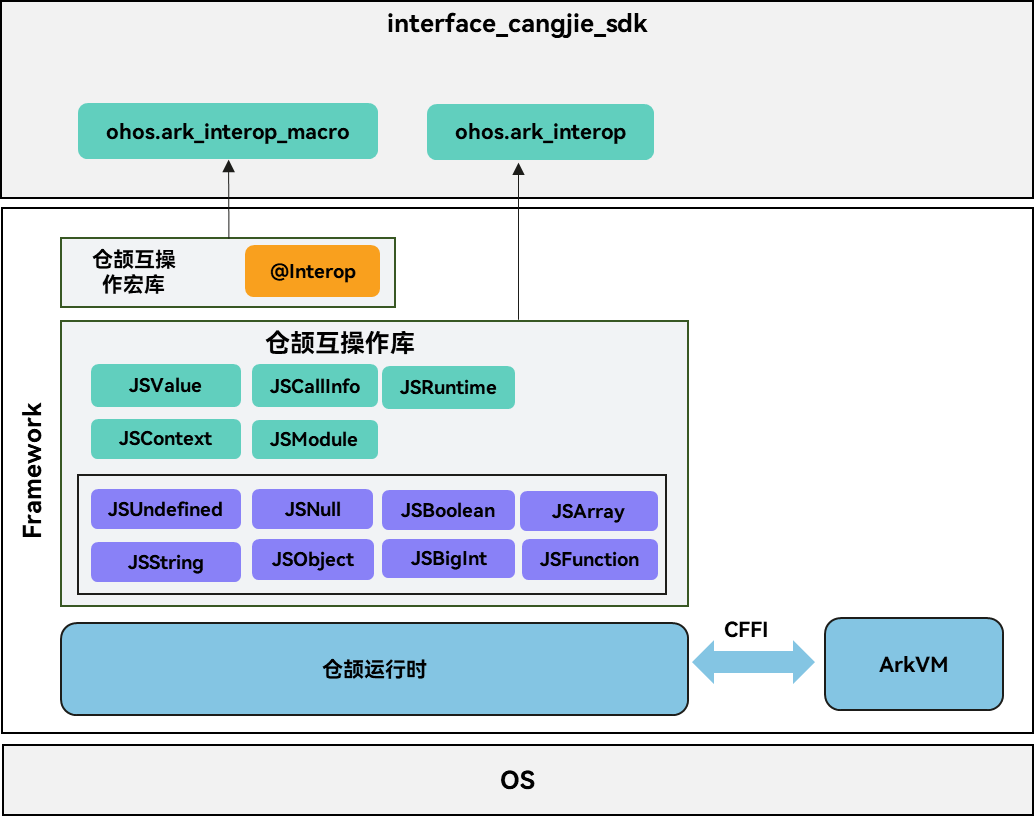
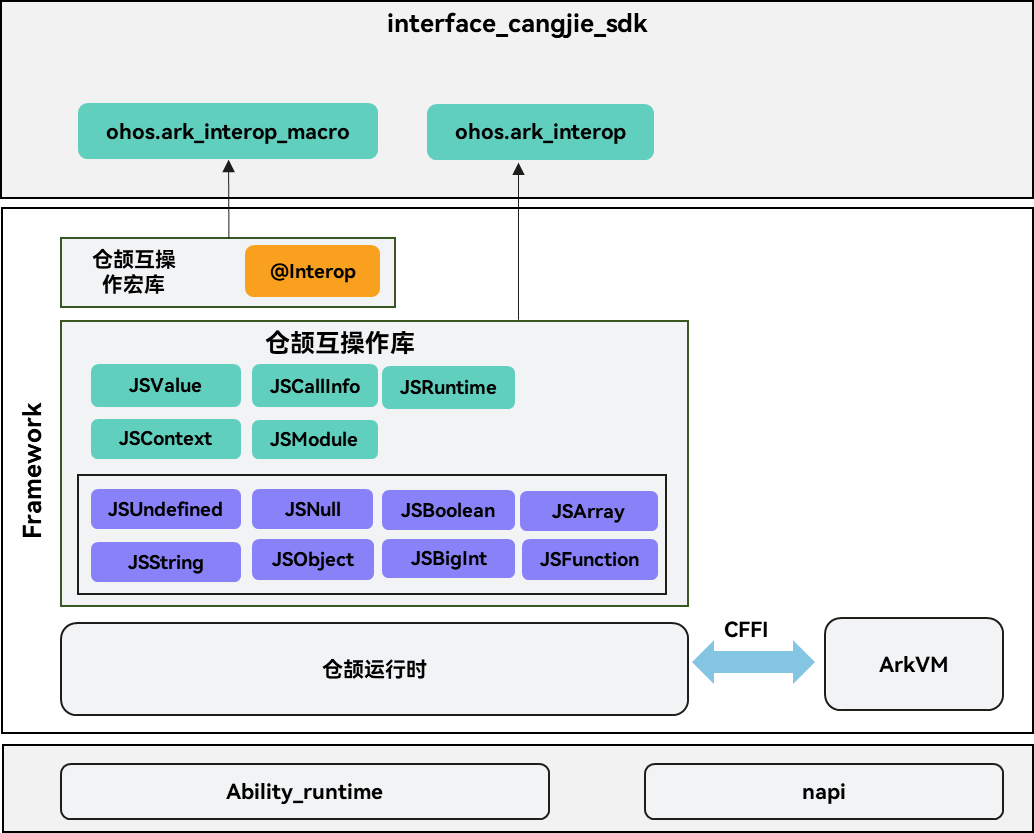
fixed doc

diff --git a/README_zh.md b/README_zh.md
@@ -1,10 +1,12 @@
-# 仓颉互操作API公共仓
+# 仓颉-ArkTS互操作接口
 
 ## 简介
 
-仓颉ArkTS互操作库API，用于提供仓颉与ArkTS跨语言互操作能力，包含仓颉互操作库提供的公共接口、互操作宏接口和依赖的json和CFFI接口，期望给开发者提供兼顾开发效率和运行效率的跨语言互操作解决方案，提供简洁的互操作开发范式，降低跨语言互通开销。
+仓颉ArkTS互操作库API，用于提供仓颉与ArkTS跨语言互操作能力，包含仓颉互操作库提供的公共接口、互操作宏接口，期望给开发者提供兼顾开发效率和运行效率的跨语言互操作解决方案，提供简洁的互操作开发范式，降低跨语言互通开销。
 
-其主要结构如下图所示：
+说明：当前开放的仓颉互操作接口仅支持standard设备。
+
+其主要框架如下图所示：
 
 ![仓颉互操作API框架](./figures/cangjie-interop.png)
 
@@ -26,40 +28,64 @@
 本库还提供以下的关键数据结构：
 
 - JSValue: 用于表示来自ArkTS中的对象（如数字、字符串、对象、函数），是仓颉与ArkTS类型转换的桥梁。
+- JSModule: JSModule的目标是提供符号导出能力（导出到ArkTS）。配合自定义静态初始化函数，在动态库被加载时把导出目标注册到全局表，并由ArkTS引擎来执行导出。
+- JSRuntime: 仓颉创建的 ArkTS 运行时。
 - JSContext: 用于表示与ArkTS互操作的上下文，提供模块加载、JSValue创建等能力。
 - JSCallInfo: 用于表示当发生来自于ArkTS互操作调用时 调用的参数集合。
 
-最后本互操作库通过CFFI调用ArkTS虚拟机提供的接口完成互操作功能。
+最后本互操作库通过C语言互操作调用ArkTS虚拟机提供的接口完成互操作功能。
+
+## 公共能力
+
+本仓库还提供了公共能力的接口，比如：JSON序列化和反序列化接口、C语言互操作接口、通用异常接口、回调接口、API Level接口。
+
+- JSON序列化和反序列化接口：用于对JSON数据的处理，实现String,JsonValue,DataModel之间的相互转换。
+- C语言互操作接口：提供了管理C互操作对象的工具类。
+- 通用异常接口：提供了通用的异常类BusinessException。
+- 回调接口：提供了用于函数回调参数的工具类。
+- API Level接口：提供了API Level的接口，用于获取当前API Level。
+
 
 ## 目录
 
 ```text
 arkcompiler/cangjie_ark_interop
-├── ohos                 # 仓颉互操作API的公共仓代码
-├── doc                  # 仓颉文档，包括API参考、应用开发指南、仓颉编程语言用户手册
-    ├── API_Reference    # 仓颉API参考
-    └── Dev_Guide        # 仓颉开发指南
-    └── release-notes    # 仓颉发布说明
-    └── User_Manual      # 仓颉用户手册
-├── figures              # 本README需要使用的图片
-├── test                 # 仓颉互操作测试用例
+├── ohos                   # 仓颉互操作API的公共仓代码
+|   ├── ark_interop        # 仓颉互操作库
+|   ├── ark_interop_helper # 仓颉互操作库工具类
+|   ├── ark_interop_macro  # 仓颉互操作库宏
+|   ├── business_exception # 仓颉互操作异常
+|   ├── callback_invoke    # 仓颉互操作回调工具类
+|   ├── encoding           # 仓颉json库
+|   ├── ffi                # 仓颉C语言互操作库
+|   ├── labels             # 仓颉互操作库api level标签
+|   ├── utf16string        # 仓颉互操作库提供的utf16字符串处理类
+├── doc                    # 仓颉文档，包括API参考、应用开发指南、仓颉编程语言用户手册
+|   ├── API_Reference      # 仓颉API参考
+|   ├── Dev_Guide          # 仓颉开发指南
+|   ├── release-notes      # 仓颉发布说明
+|   ├── User_Manual        # 仓颉用户手册
+├── figures                # 本README需要使用的图片
+├── test                   # 仓颉互操作测试用例
 ```
 
 ## 约束
 
-当前开放的仓颉互操作接口仅支持standard设备。
-
 ## 使用场景
 
-包含仓颉-ArkTS互操作库，用于仓颉-ArkTS互操作。json库/APILevel/CFFI库为基础功能库，提供给仓颉API/仓颉UI等子系统等公共能力。
+包含仓颉-ArkTS互操作库，用于仓颉-ArkTS互操作。json库/APILevel/C语言互操作库为基础功能库，提供给仓颉API/仓颉UI等子系统等公共能力。
 
 在OpenHarmony应用开发中，存在使用仓颉与ArkTS混合开发的诉求，例如以下场景：
 
 - 场景一：在使用ArkTS开发时，通过跨语言互操作调用仓颉开发的代码模块，发挥仓颉高性能高并发优势，提升应用性能体验；
 
+详细的例子请参考：[在 ArkTS 中加载仓颉模块](https://gitcode.com/openharmony-sig/arkcompiler_cangjie_ark_interop/blob/master/doc/User_Manual/source_zh_cn/FFI/cangjie-arkts/arkts_import_cangjie.md)
+
 - 场景二：在使用仓颉开发时，通过跨语言互操作调用ArkTS库，复用ArkTS丰富的库生态；
 
-同时针对互操作带来的开发复杂度，仓颉提供声明式互操作宏ark_interop_macro，使开发者可以使用宏“@Interop[ArkTS]”标注仓颉代码中需要导出给ArkTS使用的函数或类型，在编译阶段自动生成互操作“胶水层”代码及ArkTS接口声明，减少开发者手写互操作代码的复杂度。
+详细的例子请参考：[仓颉应用中使用 ArkTS 模块](https://gitcode.com/openharmony-sig/arkcompiler_cangjie_ark_interop/blob/master/doc/User_Manual/source_zh_cn/FFI/cangjie-arkts/using_arkts_module.md)
+
+同时针对互操作带来的开发复杂度，仓颉提供声明式互操作宏ark_interop_macro，使开发者可以使用宏“@Interop[ArkTS]”标注仓颉代码中需要导出给ArkTS使用的函数或类型，在编译阶段自动生成互操作“胶水层”代码及ArkTS接口声明，减少开发者手写互操作代码的复杂度。详细的例子请参考：[仓颉- ArkTS 声明式互操作宏](https://gitcode.com/openharmony-sig/arkcompiler_cangjie_ark_interop/blob/master/doc/User_Manual/source_zh_cn/FFI/cangjie-arkts/interoperability_macro.md)。
 
 ![仓颉互操作流程图](./figures/api.png)
 
@@ -81,3 +107,5 @@ arkcompiler/cangjie_ark_interop
 ## 相关仓
 
 [arkui_napi](https://gitee.com/openharmony/arkui_napi)
+
+[ability_runtime](https://gitee.com/openharmony/ability_ability_runtime)

diff --git a/README.md b/README.md
@@ -4,6 +4,8 @@
 
 The Cangjie ArkTS Interop Library API is used to provide cross-language interoperability between Cangjie and ArkTS, includes the common interfaces, interop macro interfaces, and JSON and CFFI interfaces provided by the Cangjie Interop Library, hoping to provide developers with cross-language interop solutions that take into account both development efficiency and operational efficiency, provide a simple interop development paradigm, and reduce cross-language interop overhead.
 
+The security cangjie interface currently under development only supports standard devices.
+
 Framework architecture:
 ![cangjie interop API](./figures/cangjie-interop_eng.png)
 
@@ -30,23 +32,41 @@ The library also provides the following key data structures:
 
 Finally, this interop library completes the interoperability function by calling the interface provided by the ArkTS virtual machine through CFFI.
 
+## Public ability
+
+This repository also provides interfaces for public capabilities, such as: JSON serialisation and deserialisation interfaces, C language interoperability interfaces, general exception interfaces, callback interfaces, and API level interfaces.
+
+- JSON serialisation and deserialisation interfaces:Used for processing JSON data, achieving mutual conversion between String, JsonValue, and DataModel.
+- C language interoperability interfaces:Provides a utility class for managing C interoperability objects.
+- general exception interfaces:A general exception class BusinessException.
+- callback interfaces:A utility class for function callback parameters.
+- API level interfaces:Provides an API Level interface for obtaining the current API Level.
+
 ## Directory
 
 ```text
 arkcompiler/cangjie_ark_interop
-├── ohos                 # Public repository code for Cangjie Interop API
-├── doc                  # Cangjie documentation including API reference, development guide and user manual
-    ├── API_Reference    # Cangjie api reference
-    └── Dev_Guide        # Cangjie developer guide
-    └── release-notes    # Cangjie release notes
-    └── User_Manual      # Cangjie user manual
-├── figures              # Images used in the README
-├── test                 # Cangjie interop testcases
+├── ohos                   # Public repository code for Cangjie Interop API
+|    ├── ark_interop        # Cangjie Interop API
+|    ├── ark_interop_helper # Cangjie Interop library utility class
+|    ├── ark_interop_macro  # Cangjie Interop macro
+|    ├── business_exception # Cangjie Interop exception
+|    ├── callback_invoke    # Cagnejie Interop callback invoke
+|    ├── encoding           # Cangjie json encoding
+|    ├── ffi                # Cangjie C FFI Library
+|    ├── labels             # Cangjie Interop Labels
+|    ├── utf16string        # Cangjie UTF16 String
+├── doc                    # Cangjie documentation including API reference, development guide and user manual
+|    ├── API_Reference      # Cangjie api reference
+|    ├── Dev_Guide          # Cangjie developer guide
+|    ├── release-notes      # Cangjie release notes
+|    ├── User_Manual        # Cangjie user manual
+├── figures                # Images used in the README
+├── test                   # Cangjie interop testcases
 ```
 
 ## Constraints
 
-- The security cangjie interface currently under development only supports standard devices.
 
 ## Usage Scenarios
 
@@ -59,9 +79,16 @@ For the demands of scenario one, an interoperability library can be used to impl
 In OpenHarmony application development, there is a demand for hybrid development of Cangjie and ArkTS, such as the following scenarios:
 
 - Scenario one: When using ArkTS for development, the code modules developed by Cangjie are called through cross-language interop to give full play to Cangjie's high performance and high concurrency advantages and improve the application performance experience.
+
+For more detailed examples, please refer to[Loading Cangjie Modules in ArkTS](https://gitcode.com/openharmony-sig/arkcompiler_cangjie_ark_interop/blob/master/doc/User_Manual/source_en/FFI/cangjie-arkts/arkts_import_cangjie.md)
+
 - Scenario two: When using Cangjie for development, call the ArkTS library through cross-language interoperability to reuse the rich library ecosystem of ArkTS.
 
+For more detailed examples, please refer to[Using ArkTS Modules in Cangjie Applications](https://gitcode.com/openharmony-sig/arkcompiler_cangjie_ark_interop/blob/master/doc/User_Manual/source_en/FFI/cangjie-arkts/using_arkts_module.md)
+
 At the same time, in response to the development complexity brought about by interop, Cangjie provides a declarative interoperability macro ark_interop_macro, which allows developers to use the macro "@Interop[ArkTS]" to mark the functions or types that need to be exported to ArkTS in the Cangjie code, and automatically generate the interoperability "glue layer" code and ArkTS interface declarations during the compilation stage, reducing the complexity of the developer's handwritten interoperability code.
+
+For more detailed examples, please refer to[Cangjie-ArkTS Declarative Interop Macros](https://gitcode.com/openharmony-sig/arkcompiler_cangjie_ark_interop/blob/master/doc/User_Manual/source_en/FFI/cangjie-arkts/interoperability_macro.md)
 
 ![Cangjie interoperability flow chart](./figures/api_eng.png)
 
@@ -83,3 +110,5 @@ Developers are welcome to contribute code, documentation, etc. For specific cont
 ## Related Repositories
 
 [arkui_napi](https://gitee.com/openharmony/arkui_napi)
+
+[ability_runtime](https://gitee.com/openharmony/ability_ability_runtime)
